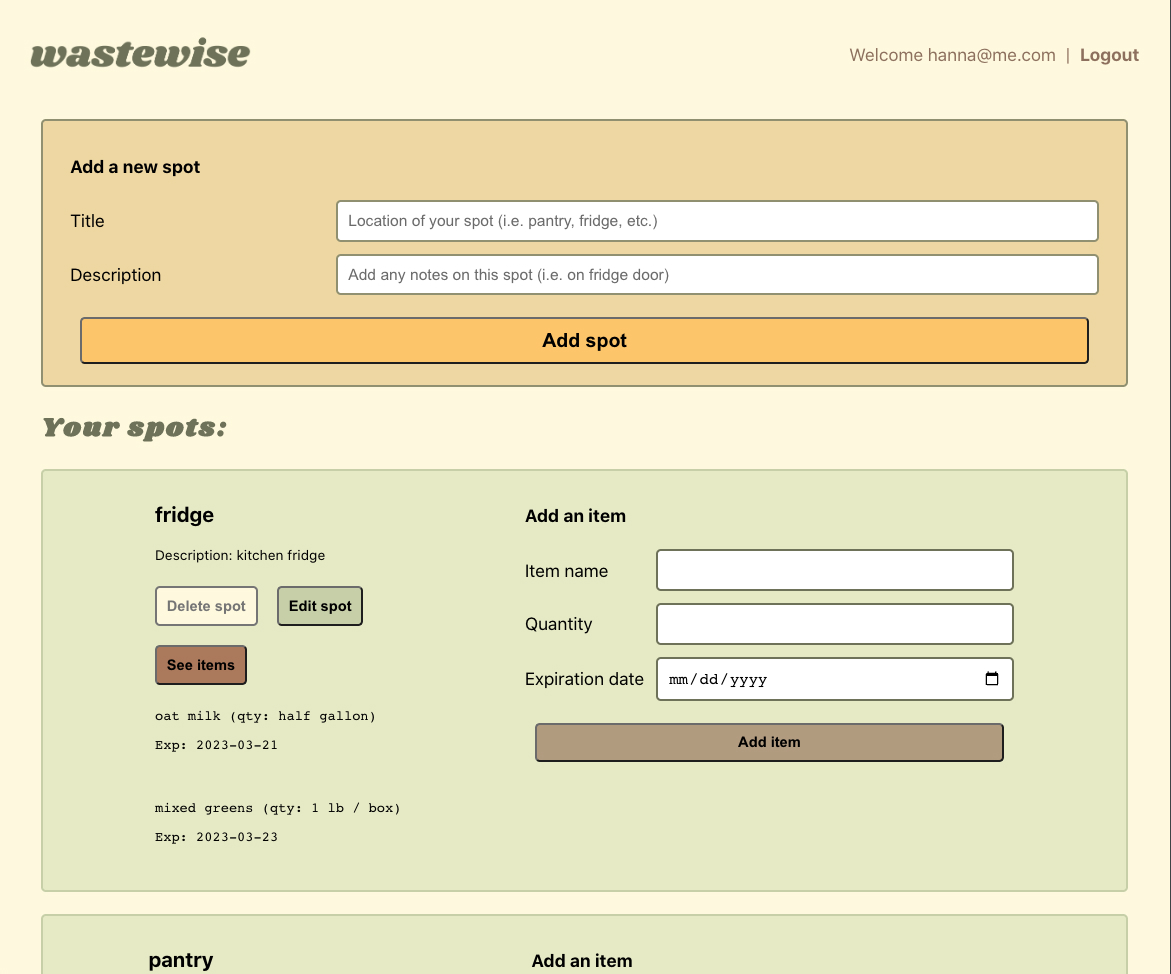
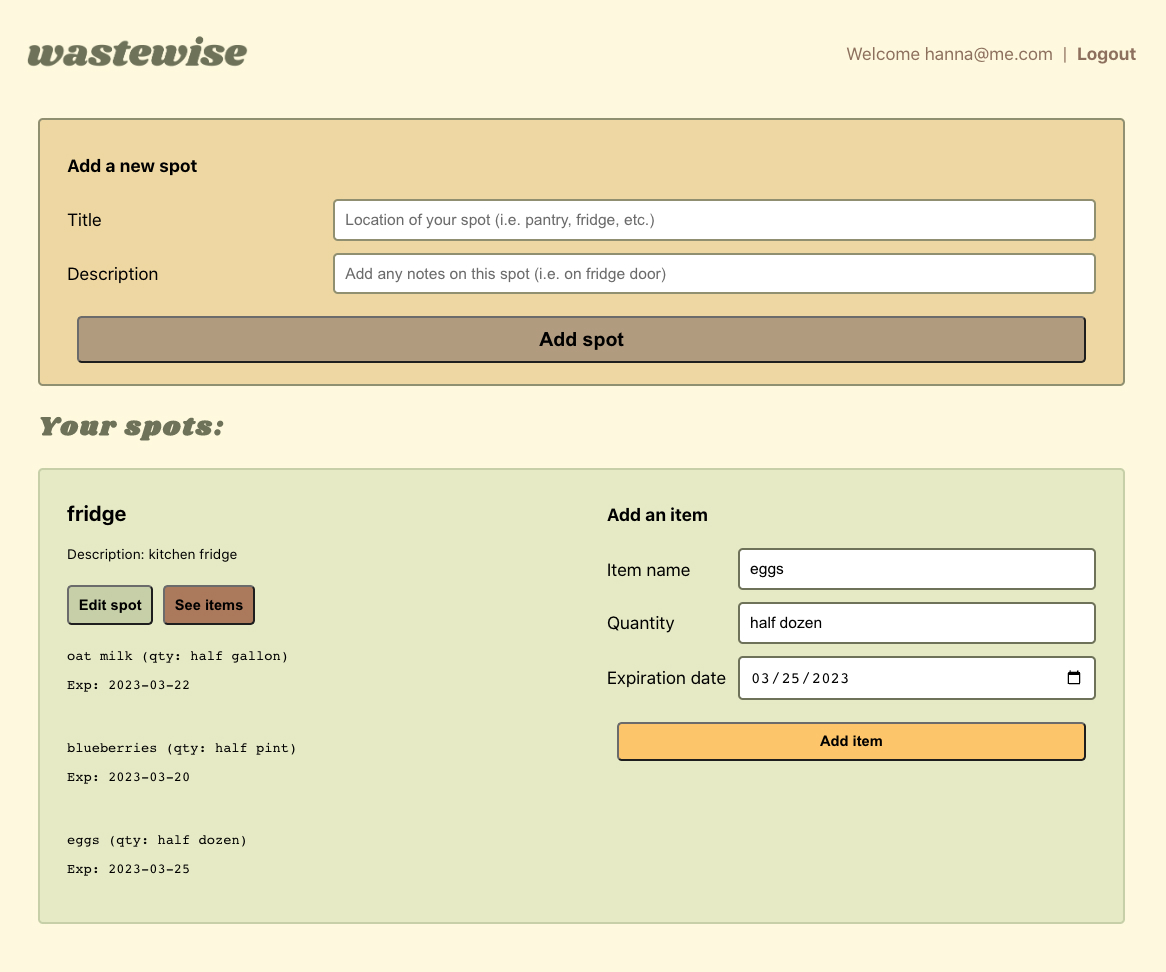
adjust UI for update/edit spot

diff --git a/src/components/Spot/Spot.js b/src/components/Spot/Spot.js
@@ -84,8 +84,11 @@ export default function Spot({ spotId, spotTitle, spotDescription, spotItems, ge
                 <h3>{spotTitle}</h3>
                 <p>Description: {spotDescription}</p>
                 <div>
-                    <button className="delete-btn" onClick={handleDeleteSpot}>Delete spot</button>
+                    
                     <button className="edit-btn" onClick={toggleUpdateForm}>Edit spot</button>
+                    {/* <p>Items in {spotTitle} </p> */}
+                    <button className="item-toggle-btn" onClick={toggleItems}>See items</button>
+                    {toggle && itemList}
                 </div>
 
                 { showUpdateForm && 
@@ -108,12 +111,11 @@ export default function Spot({ spotId, spotTitle, spotDescription, spotItems, ge
                         type="submit"
                         onClick={handleUpdateSpot}
                     >Update</button>
+                    <button className="delete-btn" onClick={handleDeleteSpot}>Delete spot</button>
                 </>
                 }
 
-                {/* <p>Items in {spotTitle} </p> */}
-                <button className="item-toggle-btn" onClick={toggleItems}>See items</button>
-                {toggle && itemList}
+
                 
             </div>
             <div className='item-form-container'>

diff --git a/src/components/Spot/Spot.css b/src/components/Spot/Spot.css
@@ -1,11 +1,11 @@
 .spot-item {
     align-items: flex-start;
-    justify-content: space-evenly;
+    justify-content: space-between;
     border: .3vmin solid var(--tea-green);
     background-color: var(--beige);
     border-radius: .5vmin;
     display: flex;
-    padding: 10px 5px;
+    padding: 10px 25px;
     margin-top: 10px; 
     margin-bottom: 20px;
 }
@@ -24,6 +24,7 @@ button.delete-btn {
 
 button.edit-btn {
     background-color: var(--tea-green);
+    margin-left: 0px;
 }
 
 button.item-toggle-btn {
